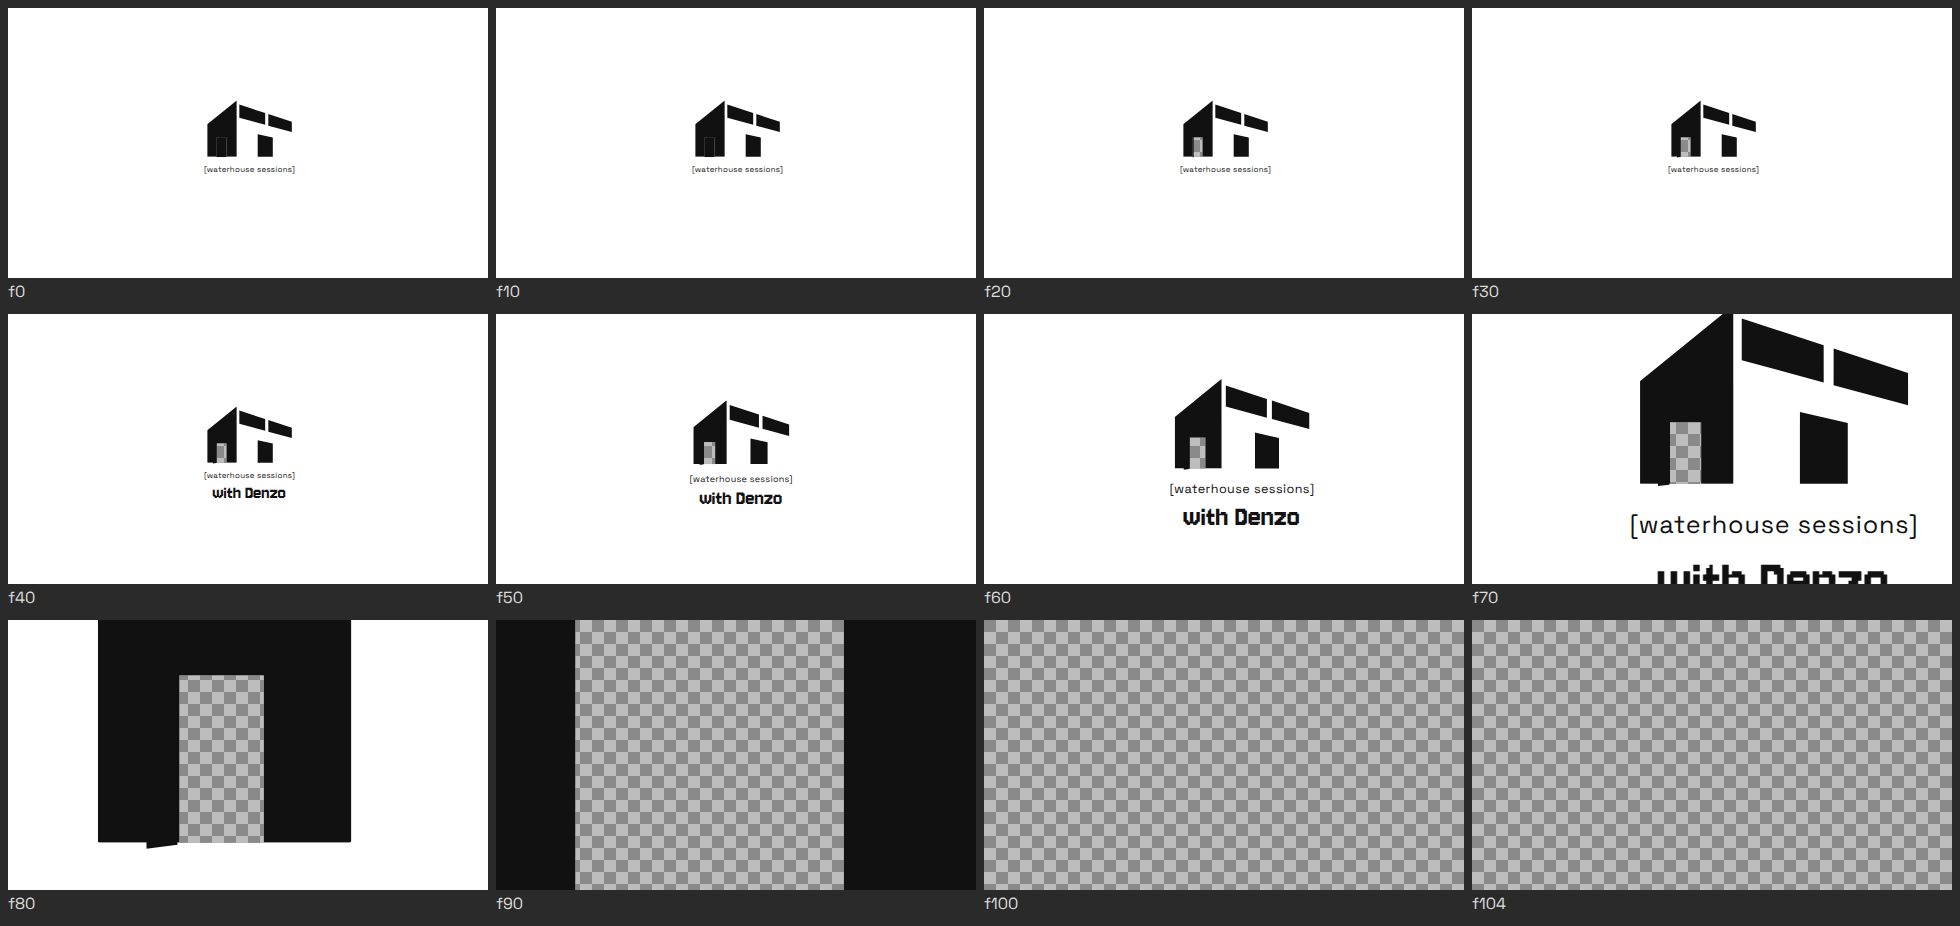
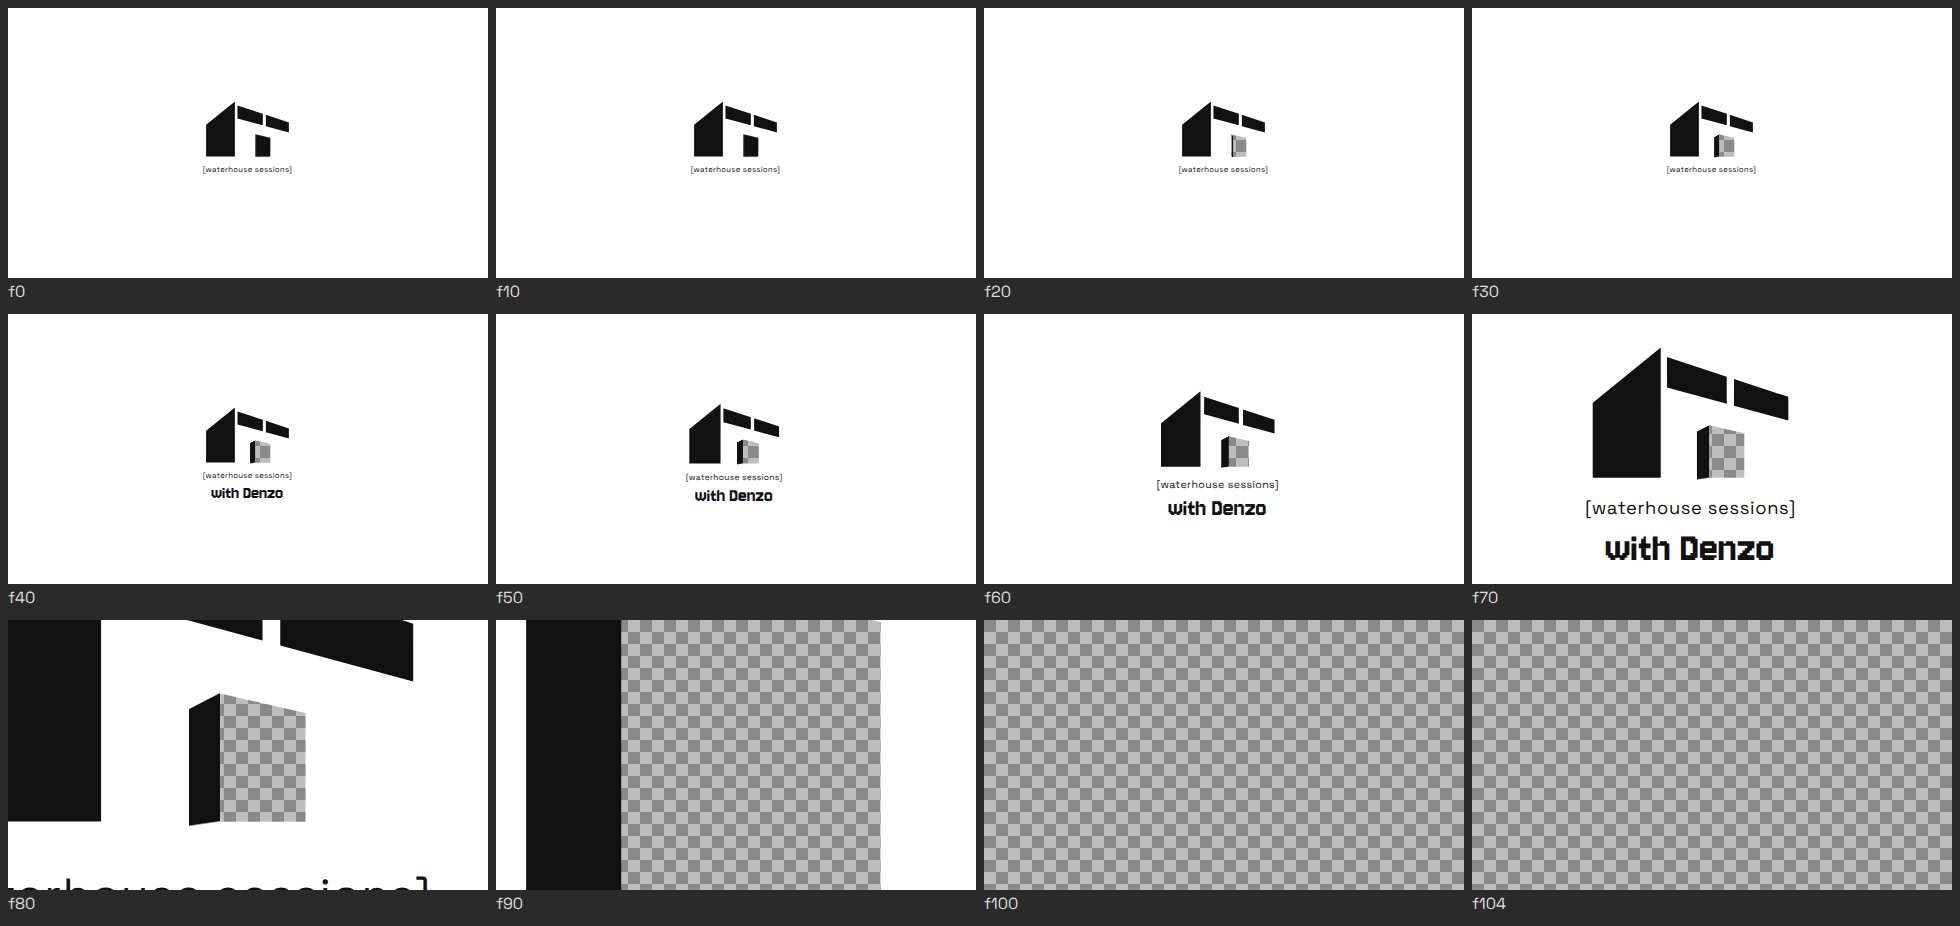
remotion-20: Door — the pillar is the door leaf, its silhouette the doorway

diff --git a/src/bumper/Door.tsx b/src/bumper/Door.tsx
@@ -9,7 +9,13 @@ import {
   useCurrentFrame,
   useVideoConfig,
 } from "remotion";
-import { LogoPieces, LOGO_VIEW_H, LOGO_VIEW_W, type Cutout } from "./Logo";
+import {
+  LOGO_PATHS,
+  LOGO_PIECE_BOX,
+  LOGO_VIEW_H,
+  LOGO_VIEW_W,
+  LogoPieces,
+} from "./Logo";
 import {
   HEIGHT,
   INK,
@@ -22,9 +28,10 @@ import {
   withLine,
 } from "./shared";
 
-// Idea 3 - The door. A white card with the small black mark; a door in the
-// house block swings open onto the live scene (alpha 0), then the whole card
-// rushes through the doorway.
+// Idea 3 - The door. A white card with the small black mark; the mark's
+// pillar piece is the door. It swings open on its left edge onto the live
+// scene (alpha 0 where it stood), then the whole card rushes through that
+// doorway.
 
 // --- Timing (30 fps, 105 frames = 3.5 s). Tune beats here. ---
 export const DOOR_DURATION = 105;
@@ -59,19 +66,20 @@ const CAPTION_SIZE = 30;
 const NAME_TOP = CAPTION_TOP + 54;
 const NAME_SIZE = 72;
 
-// The doorway, in logo units, in the lower part of the house block
-// (x 0..348, base y 665). Everything behind it is alpha 0.
-const DOORWAY: Cutout = { x: 112, y: 436, w: 116, h: 230 };
-const DOOR_LEFT = LOGO_LEFT + DOORWAY.x * UNIT;
-const DOOR_TOP = LOGO_TOP + DOORWAY.y * UNIT;
-const DOOR_W = DOORWAY.w * UNIT;
-const DOOR_H = DOORWAY.h * UNIT;
-const LEAF_OUTSET = 0.5;
+// The doorway is the pillar's own silhouette (slanted top and all), so the
+// hole and the leaf are the same path. Its box on the card, in px:
+const PILLAR = LOGO_PIECE_BOX.pillar;
+const DOOR_LEFT = LOGO_LEFT + PILLAR.x * UNIT;
+const DOOR_TOP = LOGO_TOP + PILLAR.y * UNIT;
+const DOOR_W = PILLAR.w * UNIT;
+const DOOR_H = PILLAR.h * UNIT;
 const DOOR_CX = DOOR_LEFT + DOOR_W / 2;
 const DOOR_CY = DOOR_TOP + DOOR_H / 2;
+// The leaf's SVG is cut to the pillar's box; the hinge is the box's left edge.
+const PILLAR_VIEW = `${PILLAR.x} ${PILLAR.y} ${PILLAR.w} ${PILLAR.h}`;
 
 // The scale at which the doorway's edges are outside the frame on every
-// side, plus a little margin. ~58x for a 37 px wide doorway.
+// side, plus a little margin. ~38x for a 57 px wide doorway.
 const ZOOM_MARGIN = 1.04;
 export const ZOOM_SCALE =
   ZOOM_MARGIN *
@@ -166,12 +174,10 @@ export const Door: React.FC<DoorProps> = ({ guestName, idle }) => {
           <defs>
             <mask id="door-card-hole" maskUnits="userSpaceOnUse">
               <rect x={0} y={0} width={WIDTH} height={HEIGHT} fill="#fff" />
-              <rect
-                x={DOOR_LEFT}
-                y={DOOR_TOP}
-                width={DOOR_W}
-                height={DOOR_H}
+              <path
+                d={LOGO_PATHS.pillar}
                 fill="#000"
+                transform={`translate(${LOGO_LEFT} ${LOGO_TOP}) scale(${UNIT})`}
               />
             </mask>
           </defs>
@@ -186,7 +192,7 @@ export const Door: React.FC<DoorProps> = ({ guestName, idle }) => {
           <g transform={`translate(${LOGO_LEFT} ${LOGO_TOP}) scale(${UNIT})`}>
             <LogoPieces
               color={INK}
-              houseCutout={DOORWAY}
+              omit={["pillar"]}
               pieces={{
                 house: {
                   // The peak nods; the base stays on the ground.
@@ -198,21 +204,24 @@ export const Door: React.FC<DoorProps> = ({ guestName, idle }) => {
           </g>
         </svg>
 
-        {/* The door leaf, hinged on its left edge. Half a pixel larger than
-            the opening so the closed door shows no anti-aliased seam. */}
-        <div
+        {/* The door leaf: the pillar itself, hinged on its left edge. */}
+        <svg
+          width={DOOR_W}
+          height={DOOR_H}
+          viewBox={PILLAR_VIEW}
           style={{
             position: "absolute",
-            left: DOOR_LEFT - LEAF_OUTSET,
-            top: DOOR_TOP - LEAF_OUTSET,
-            width: DOOR_W + 2 * LEAF_OUTSET,
-            height: DOOR_H + 2 * LEAF_OUTSET,
-            background: INK,
+            left: DOOR_LEFT,
+            top: DOOR_TOP,
+            display: "block",
+            overflow: "visible",
             transformOrigin: "0% 50%",
             transform: `perspective(800px) rotateY(${doorDeg}deg)`,
             backfaceVisibility: "visible",
           }}
-        />
+        >
+          <path d={LOGO_PATHS.pillar} fill={INK} />
+        </svg>
 
         <div
           style={{

diff --git a/src/bumper/Logo.tsx b/src/bumper/Logo.tsx
@@ -1,4 +1,4 @@
-import React, { useId } from "react";
+import React from "react";
 
 // The Waterhouse mark from public/logo.svg, split into its four paths so the
 // bumpers can move each piece on its own. Coordinates are the SVG's own
@@ -21,6 +21,17 @@ export const LOGO_PATHS: Record<LogoPiece, string> = {
 
 export const LOGO_PIECE_ORDER: LogoPiece[] = ["house", "beamA", "beamB", "pillar"];
 
+/** Bounding boxes in logo units, from the path coordinates. */
+export const LOGO_PIECE_BOX: Record<
+  LogoPiece,
+  { x: number; y: number; w: number; h: number }
+> = {
+  house: { x: 0, y: 2.1, w: 347.9, h: 663.4 },
+  beamA: { x: 379.6, y: 48.7, w: 305.6, h: 238.9 },
+  beamB: { x: 722.2, y: 161.0, w: 277.8, h: 211.9 },
+  pillar: { x: 596.6, y: 398.0, w: 178.6, h: 267.9 },
+};
+
 export interface PieceStyle {
   // CSS transform in the piece's own box (`transform-box: fill-box`).
   transform?: string;
@@ -29,51 +40,27 @@ export interface PieceStyle {
   opacity?: number;
 }
 
-export interface Cutout {
-  // In logo units. The house block is drawn with this rect removed, so
-  // whatever is behind the logo shows through - the door's opening.
-  x: number;
-  y: number;
-  w: number;
-  h: number;
-}
-
 interface LogoPiecesProps {
   color: string;
   pieces?: Partial<Record<LogoPiece, PieceStyle>>;
-  houseCutout?: Cutout;
+  // Pieces to leave out, when something else draws them (the door leaf).
+  omit?: LogoPiece[];
 }
 
 export const LogoPieces: React.FC<LogoPiecesProps> = ({
   color,
   pieces = {},
-  houseCutout,
+  omit = [],
 }) => {
-  const maskId = useId();
   return (
     <g>
-      {houseCutout ? (
-        <defs>
-          <mask id={maskId} maskUnits="userSpaceOnUse">
-            <rect x={0} y={0} width={LOGO_VIEW_W} height={LOGO_VIEW_H} fill="#fff" />
-            <rect
-              x={houseCutout.x}
-              y={houseCutout.y}
-              width={houseCutout.w}
-              height={houseCutout.h}
-              fill="#000"
-            />
-          </mask>
-        </defs>
-      ) : null}
-      {LOGO_PIECE_ORDER.map((piece) => {
+      {LOGO_PIECE_ORDER.filter((piece) => omit.indexOf(piece) === -1).map((piece) => {
         const s = pieces[piece] ?? {};
         return (
           <path
             key={piece}
             d={LOGO_PATHS[piece]}
             fill={color}
-            mask={piece === "house" && houseCutout ? `url(#${maskId})` : undefined}
             style={{
               transformBox: "fill-box",
               transformOrigin: s.transformOrigin ?? "50% 50%",
